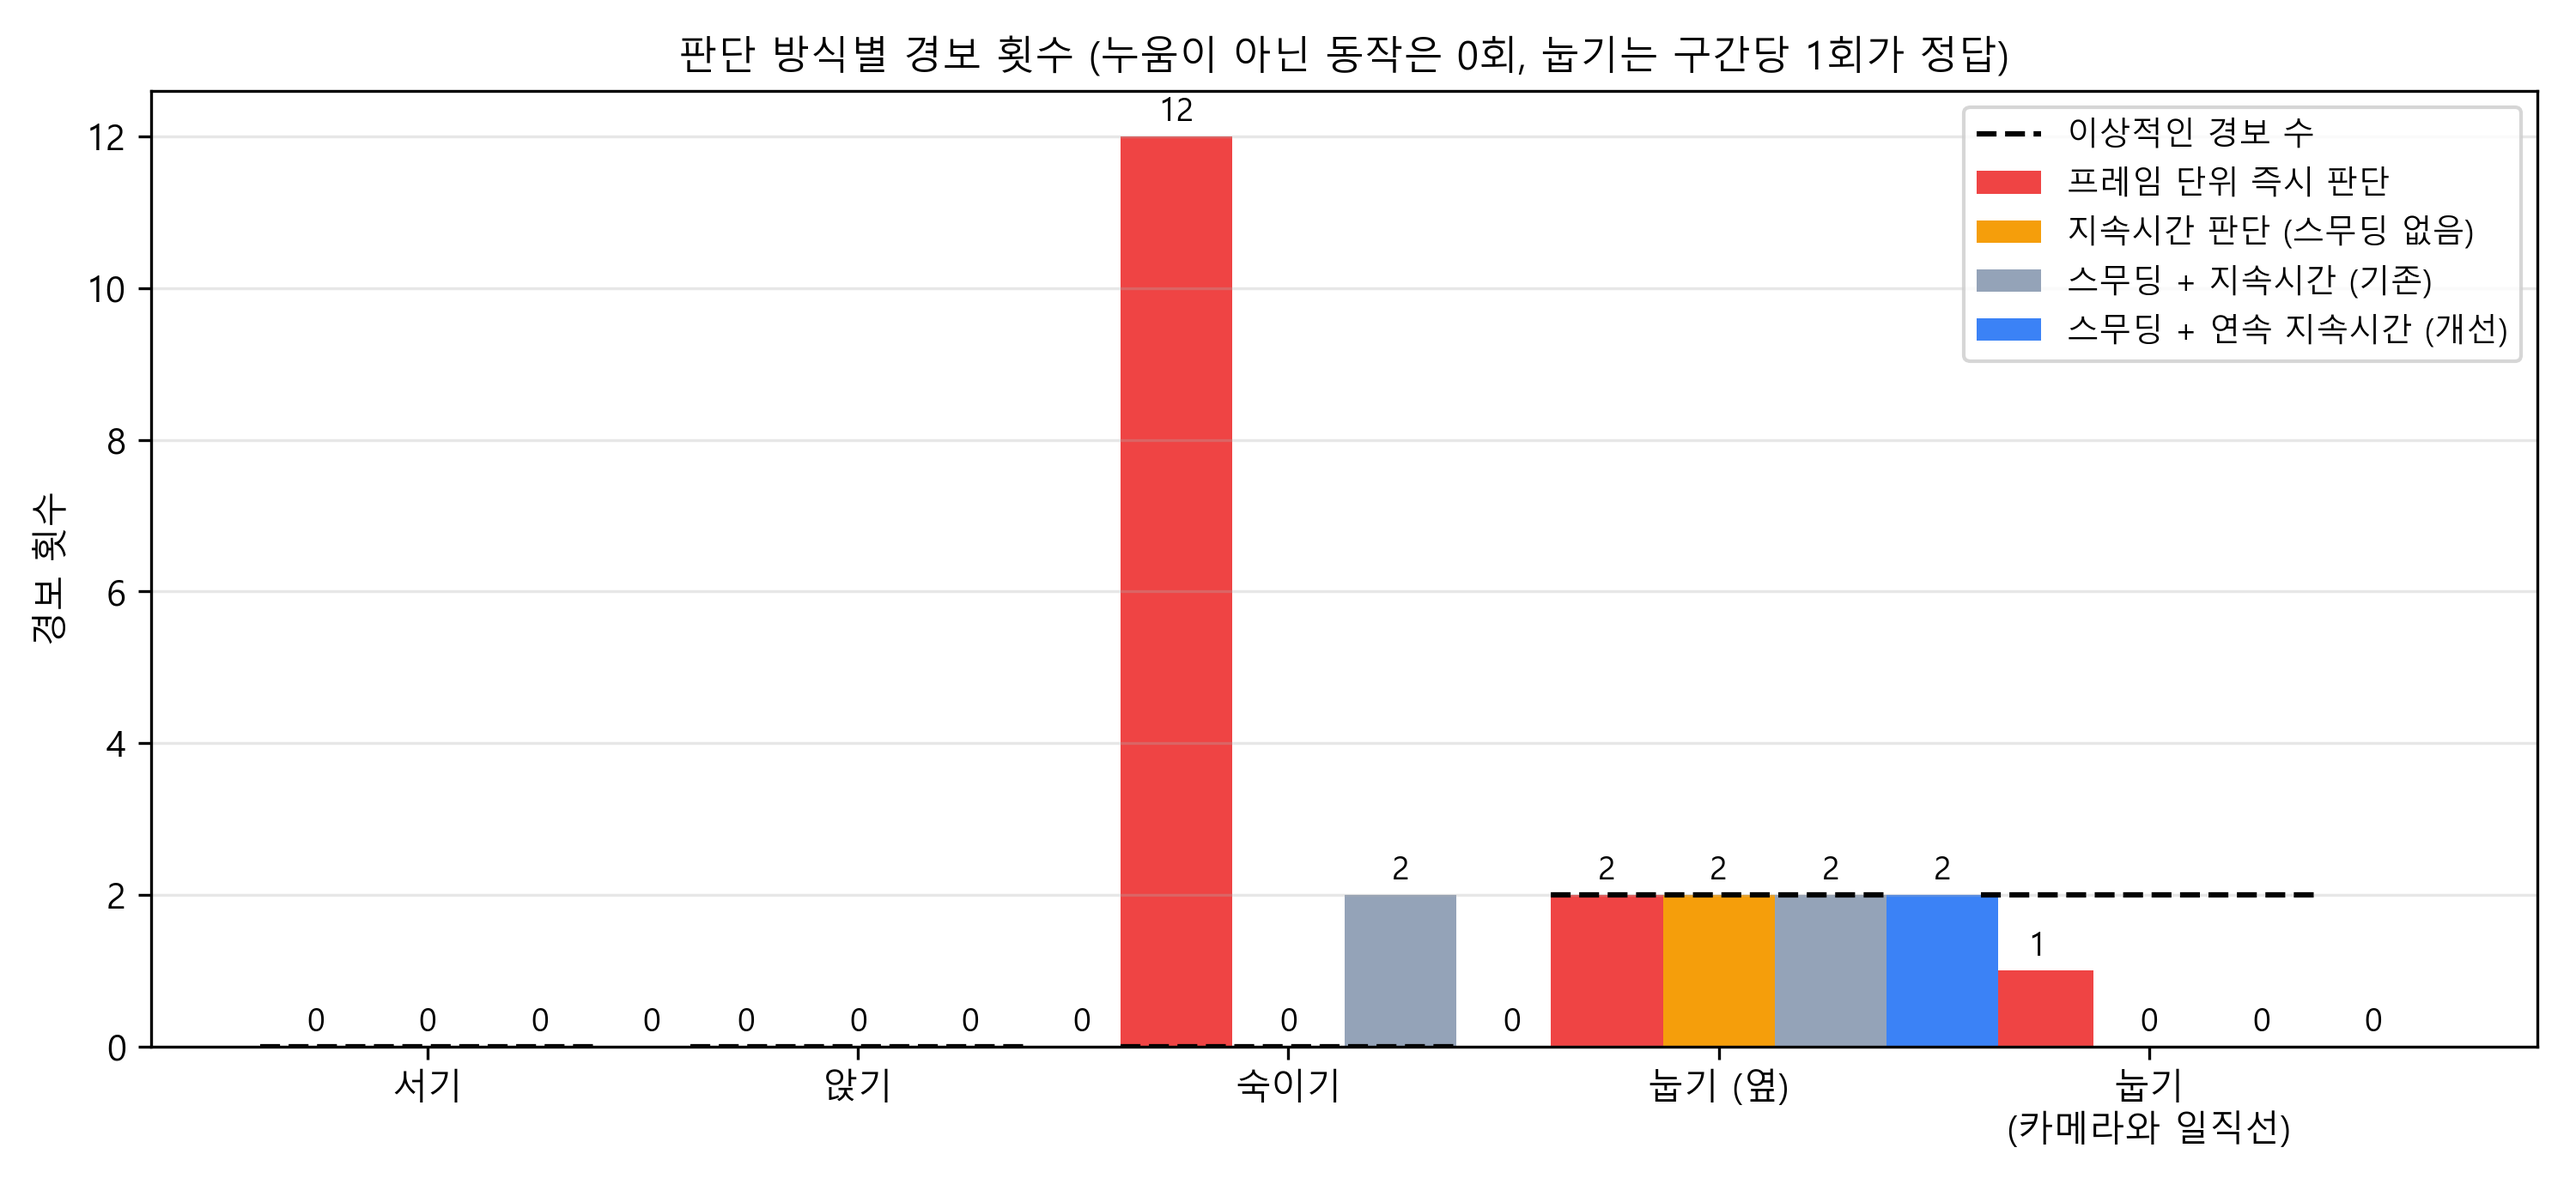
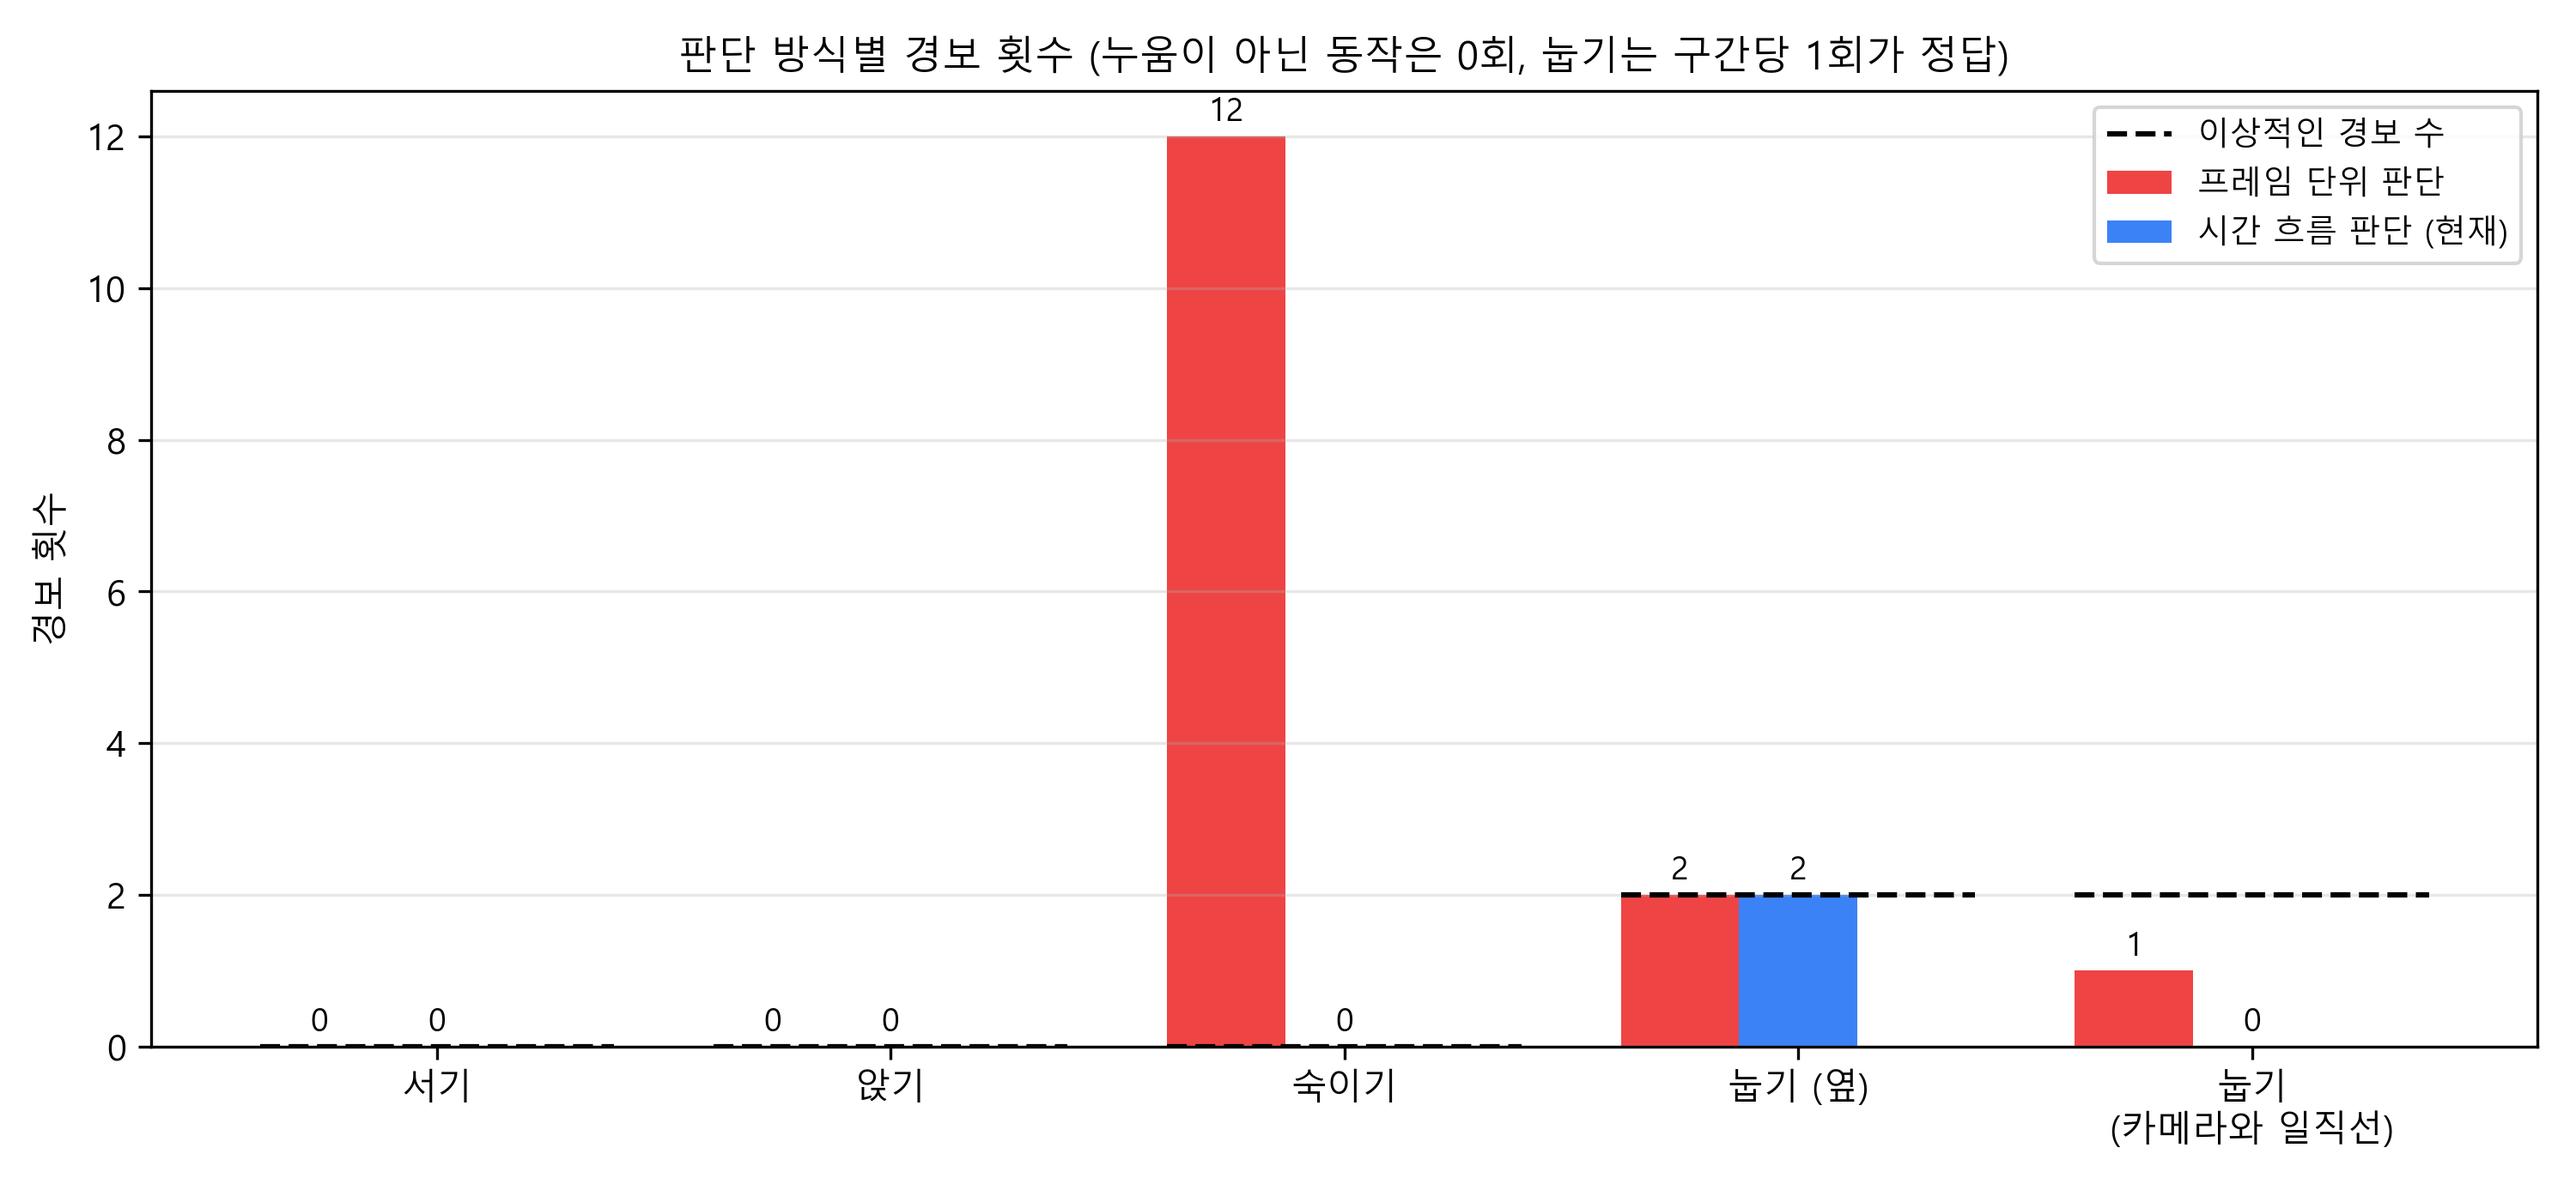
경보 그래프 포스터용(2개 방식)으로 수정

diff --git a/src/experiments/analyze_events.py b/src/experiments/analyze_events.py
@@ -16,10 +16,8 @@ plt.rcParams["axes.unicode_minus"] = False
 
 ACTIVITIES = [("stand", "서기"), ("sit", "앉기"), ("bend", "숙이기"),
               ("lie_side", "눕기 (옆)"), ("lie_front", "눕기\n(카메라와 일직선)")]
-METHODS = [("frame", "프레임 단위 즉시 판단", "#ef4444"),
-           ("duration", "지속시간 판단 (스무딩 없음)", "#f59e0b"),
-           ("current", "스무딩 + 지속시간 (기존)", "#94a3b8"),
-           ("improved", "스무딩 + 연속 지속시간 (개선)", "#3b82f6")]
+METHODS = [("frame", "프레임 단위 판단", "#ef4444"),
+           ("improved", "시간 흐름 판단 (현재)", "#3b82f6")]
 
 
 def load(path):
